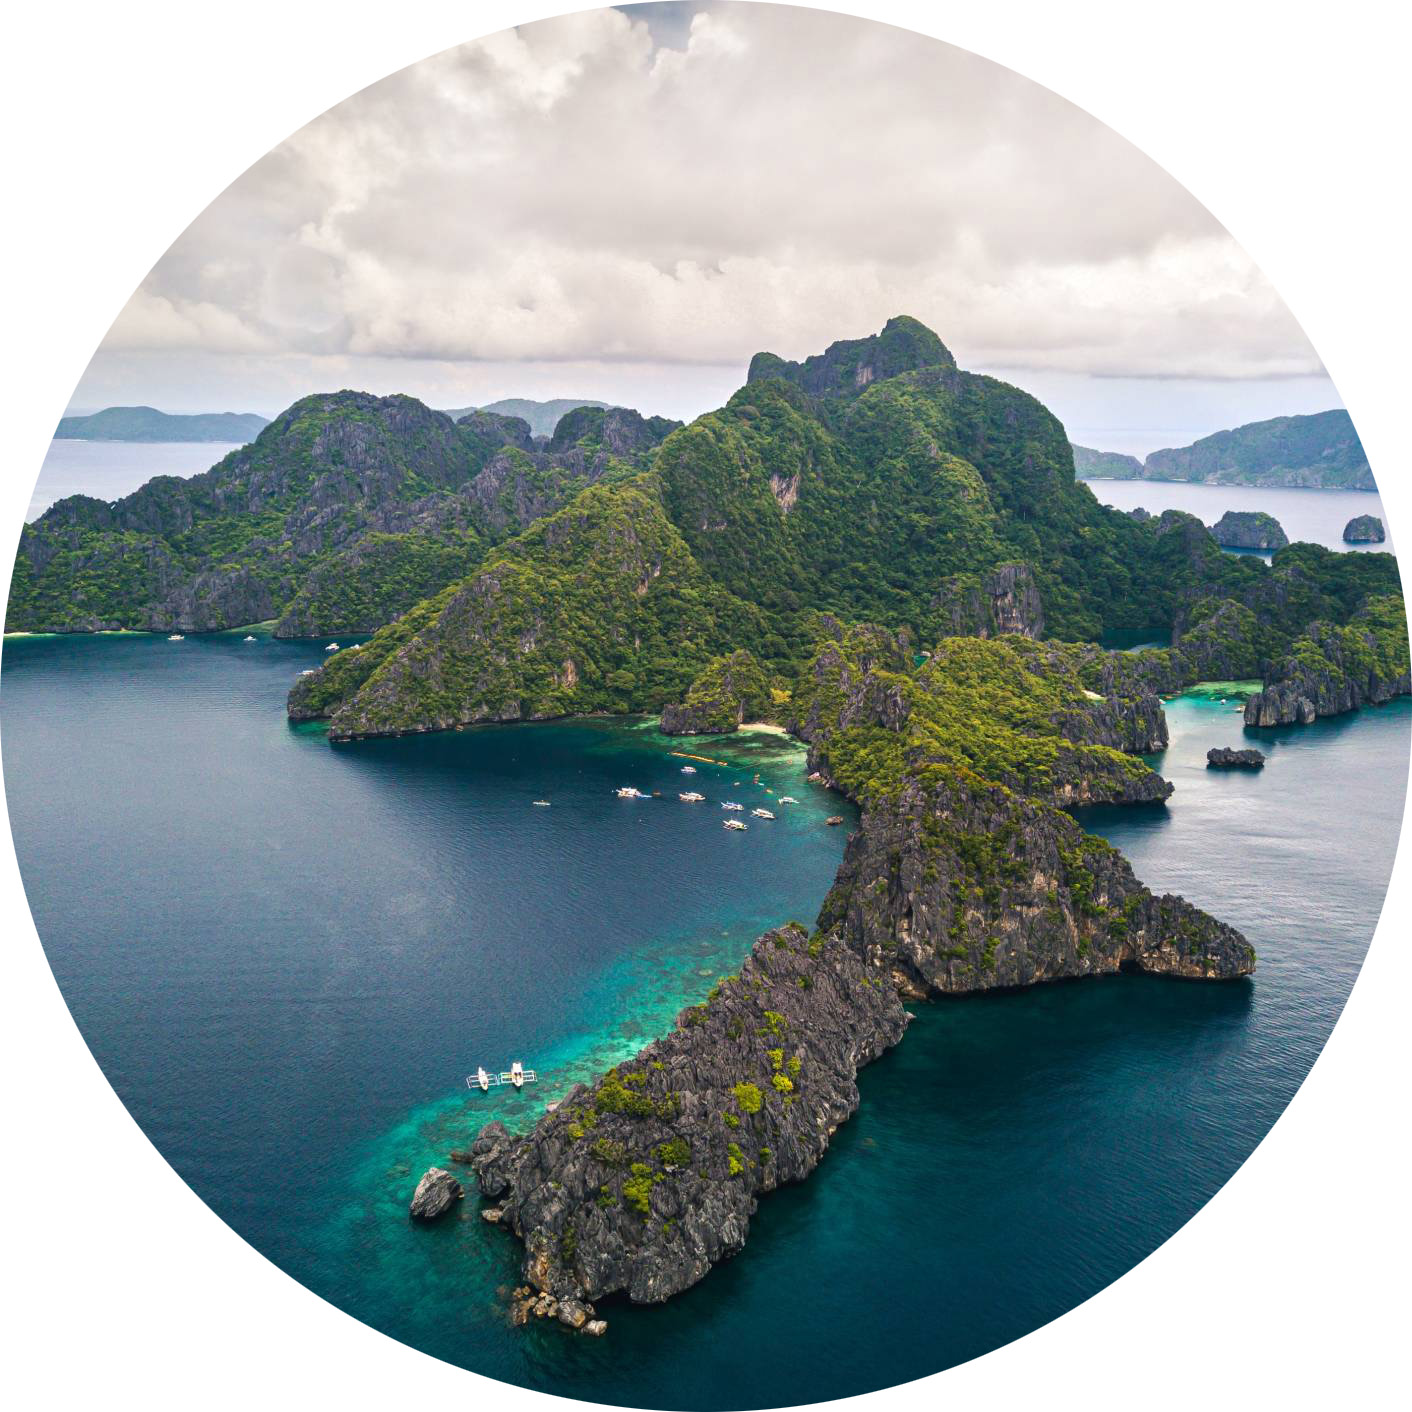
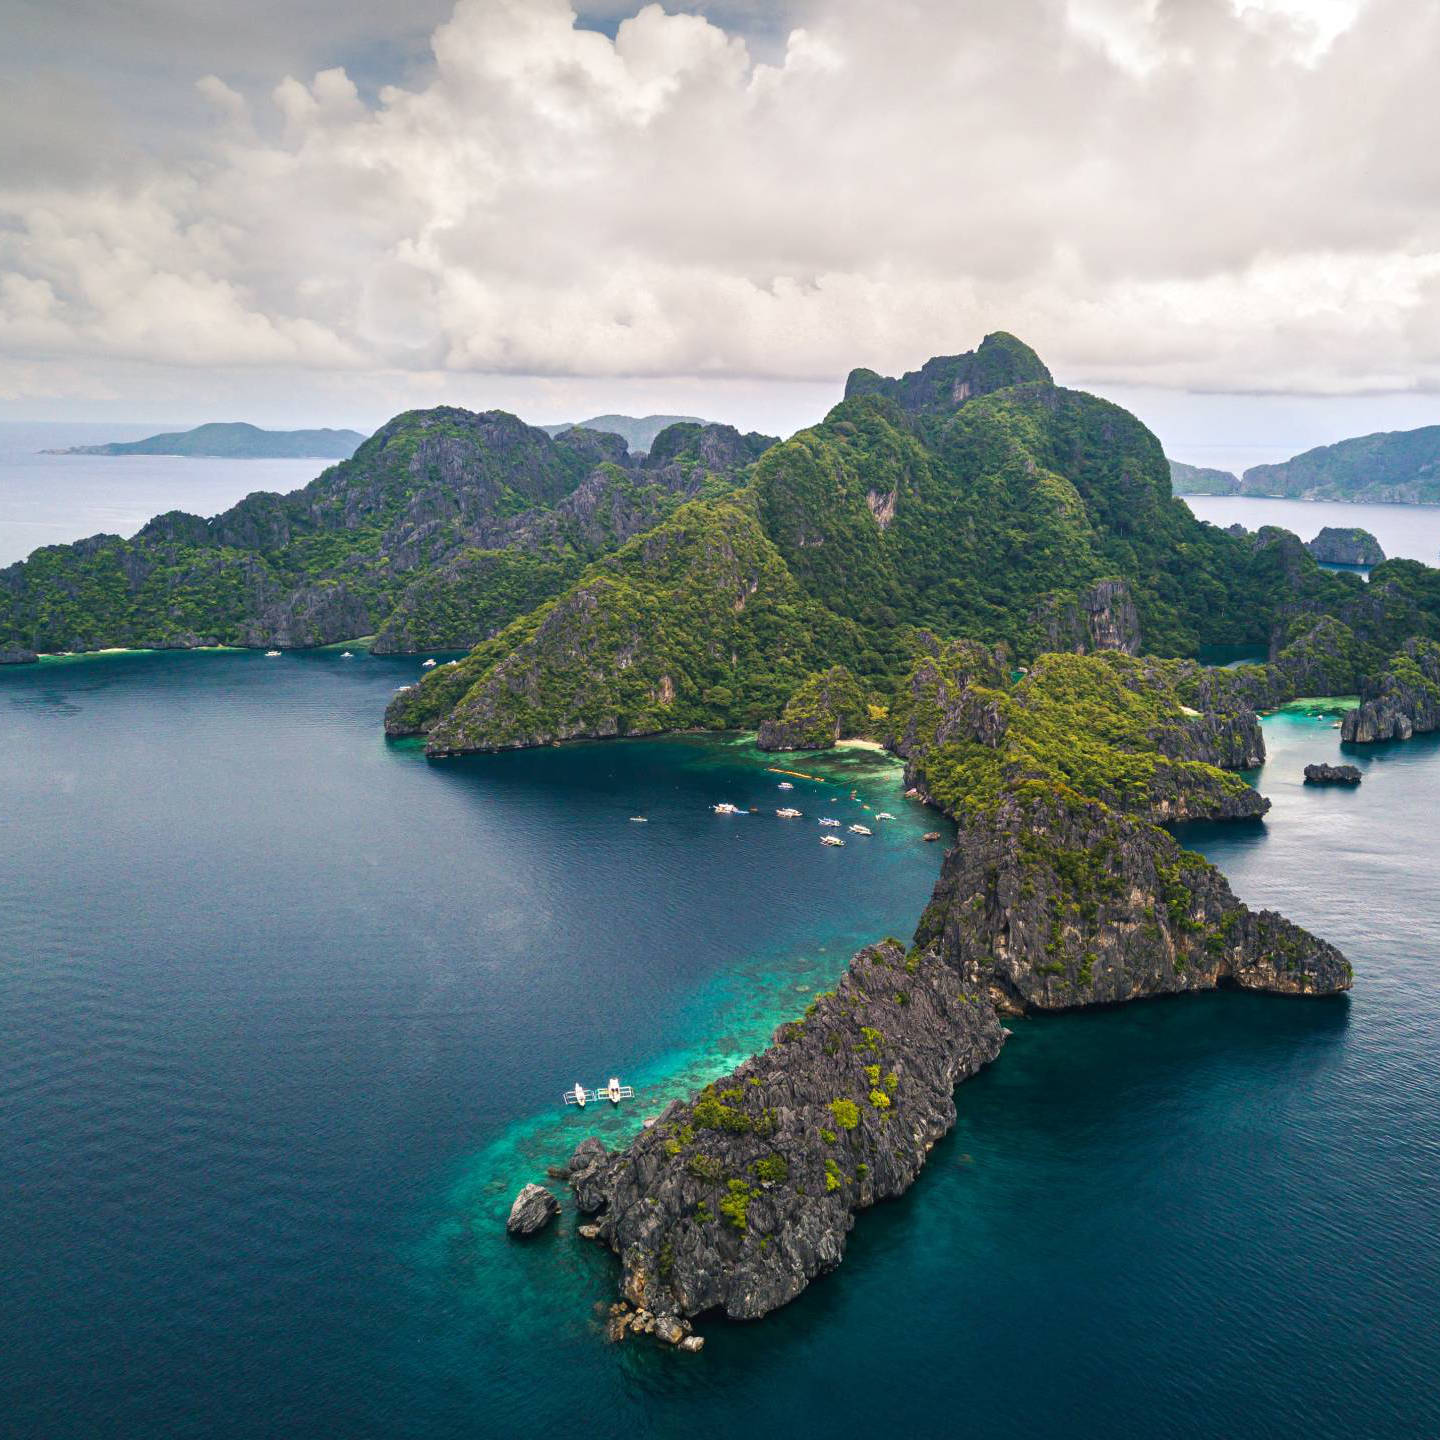
page site deplonge resposive avec imge ronde

diff --git a/sites-de-plongee/index.html b/sites-de-plongee/index.html
@@ -21,57 +21,59 @@
         <section class="headline" id="site">
             <h1>Site de plongée</h1>
         </section>
-        <div class="margium">
-            <div class="double" >
-                <div> <img src="../img/c-alejandro-luengo-h1dEzlP12hs-unsplash.jpg" alt="ile"/></div>
-                <div>
-                    <h2>Crystal Bay</h2>
-                    <p>Advenit post multos Scudilo Scutariorum
-                        tribunus velamento subagrestis ingenii
-                        persuasionis opifex callidus. qui eum adulabili
-                        sermone seriis admixto solus omnium proficisci
-                        pellexit vultu adsimulato saepius replicando
-                        quod flagrantibus votis eum videre frater
-                        cuperet patruelis, siquid per inprudentiam
-                        gestum est remissurus ut mitis et clemens,
-                        participemque eum suae maiestatis
-                        adscisceret, futurum laborum quoque socium,
-                        quos Arctoae provinciae diu fessae poscebant.</p>
+        <section class="sitedeplonge">
+            <div class="margium">
+                <div class="double" >
+                    <div> <img src="../img/BatuBoloong.jpg" alt="ile"/></div>
+                    <div>
+                        <h2>Batu Bolong</h2>
+                        <p>Advenit post multos Scudilo Scutariorum
+                            tribunus velamento subagrestis ingenii
+                            persuasionis opifex callidus. qui eum adulabili
+                            sermone seriis admixto solus omnium proficisci
+                            pellexit vultu adsimulato saepius replicando
+                            quod flagrantibus votis eum videre frater
+                            cuperet patruelis, siquid per inprudentiam
+                            gestum est remissurus ut mitis et clemens,
+                            participemque eum suae maiestatis
+                            adscisceret, futurum laborum quoque socium,
+                            quos Arctoae provinciae diu fessae poscebant.</p>
+                    </div>
                 </div>
-            </div>
-            <div class="double" >
-                <div>
-                    <h2>Cap Kri</h2>
-                    <p>Alios autem dicere aiunt multo etiam
-                        inhumanius (quem locum breviter paulo ante
-                        perstrinxi) praesidii adiumentique causa, non
-                        benevolentiae neque caritatis, amicitias esse
-                        expetendas; itaque, ut quisque minimum
-                        firmitatis haberet minimumque virium, ita
-                        amicitias appetere maxime; ex eo fieri ut
-                        mulierculae magis amicitiarum praesidia
-                        quaerant quam viri et inopes quam opulenti et
-                        calamitosi quam ii qui putentur beati.</p>
+                <div class="doubleinv" >
+                    <div>
+                        <h2>Cap Kri</h2>
+                        <p>Alios autem dicere aiunt multo etiam
+                            inhumanius (quem locum breviter paulo ante
+                            perstrinxi) praesidii adiumentique causa, non
+                            benevolentiae neque caritatis, amicitias esse
+                            expetendas; itaque, ut quisque minimum
+                            firmitatis haberet minimumque virium, ita
+                            amicitias appetere maxime; ex eo fieri ut
+                            mulierculae magis amicitiarum praesidia
+                            quaerant quam viri et inopes quam opulenti et
+                            calamitosi quam ii qui putentur beati.</p>
+                    </div>
+                    <div> <img src="../img/CapKri.jpg" alt="ile"/></div>
                 </div>
-                <div> <img src="../img/c-marina-YmQ0-nmWcV0-unsplash.jpg" alt="ile"/></div>
-            </div>
-            <div class="double" >
-                <div> <img src="../img/c-denys-nevozhai-guNIjIuUcgY-unsplash.jpg" alt="ile"/></div>
-                <div>
-                    <h2>Batu Bolong</h2>
-                    <p>Quod opera consulta cogitabatur astute, ut hoc
-                        insidiarum genere Galli periret avunculus, ne
-                        eum ut praepotens acueret in fiduciam exitiosa
-                        coeptantem. verum navata est opera diligens
-                        hocque dilato Eusebius praepositus cubiculi
-                        missus est Cabillona aurum secum perferens,
-                        quo per turbulentos seditionum concitores
-                        occultius distributo et tumor consenuit militum
-                        et salus est in tuto locata praefecti. deinde cibo
-                        abunde perlato castra die praedicto sunt mota.</p>
+                <div class="double" >
+                    <div> <img src="../img/CrystalBay.jpg" alt="ile"/></div>
+                    <div>
+                        <h2>Crystal Bay</h2>
+                        <p>Quod opera consulta cogitabatur astute, ut hoc
+                            insidiarum genere Galli periret avunculus, ne
+                            eum ut praepotens acueret in fiduciam exitiosa
+                            coeptantem. verum navata est opera diligens
+                            hocque dilato Eusebius praepositus cubiculi
+                            missus est Cabillona aurum secum perferens,
+                            quo per turbulentos seditionum concitores
+                            occultius distributo et tumor consenuit militum
+                            et salus est in tuto locata praefecti. deinde cibo
+                            abunde perlato castra die praedicto sunt mota.</p>
+                    </div>
                 </div>
-            </div>
         </div>
+     </section>
         <footer>
             <div class="marge-footer">
                 <div>

diff --git a/asset/style.css b/asset/style.css
@@ -320,19 +320,24 @@ h1.titre,p.paragraphe,p.prix2{
 }
 
 /* début partie site de plonge */
-.double {
+
+.sitedeplonge img {
+  clip-path: circle(50% at 50% 50%);
+}
+
+.double, .doubleinv  {
   display: flex;
   flex-direction: row;
   padding: 46px 0px;
 }
-.double div {
+.double div, .doubleinv div {
   flex: 1;
   padding:15px;
   display: flex;
 justify-content: center;
   flex-direction: column;
 }
-.double p {
+.double p, .doubleinv p {
   max-width: 520px;
   line-height: 180%;
   color: #545454;
@@ -408,7 +413,10 @@ footer input {
   .double {
     flex-direction: column;
   }
-  .double div {
+  .doubleinv {
+    flex-direction: column-reverse;
+  }
+  .double div, .doubleinv div {
     align-items: center;
 }
 }
